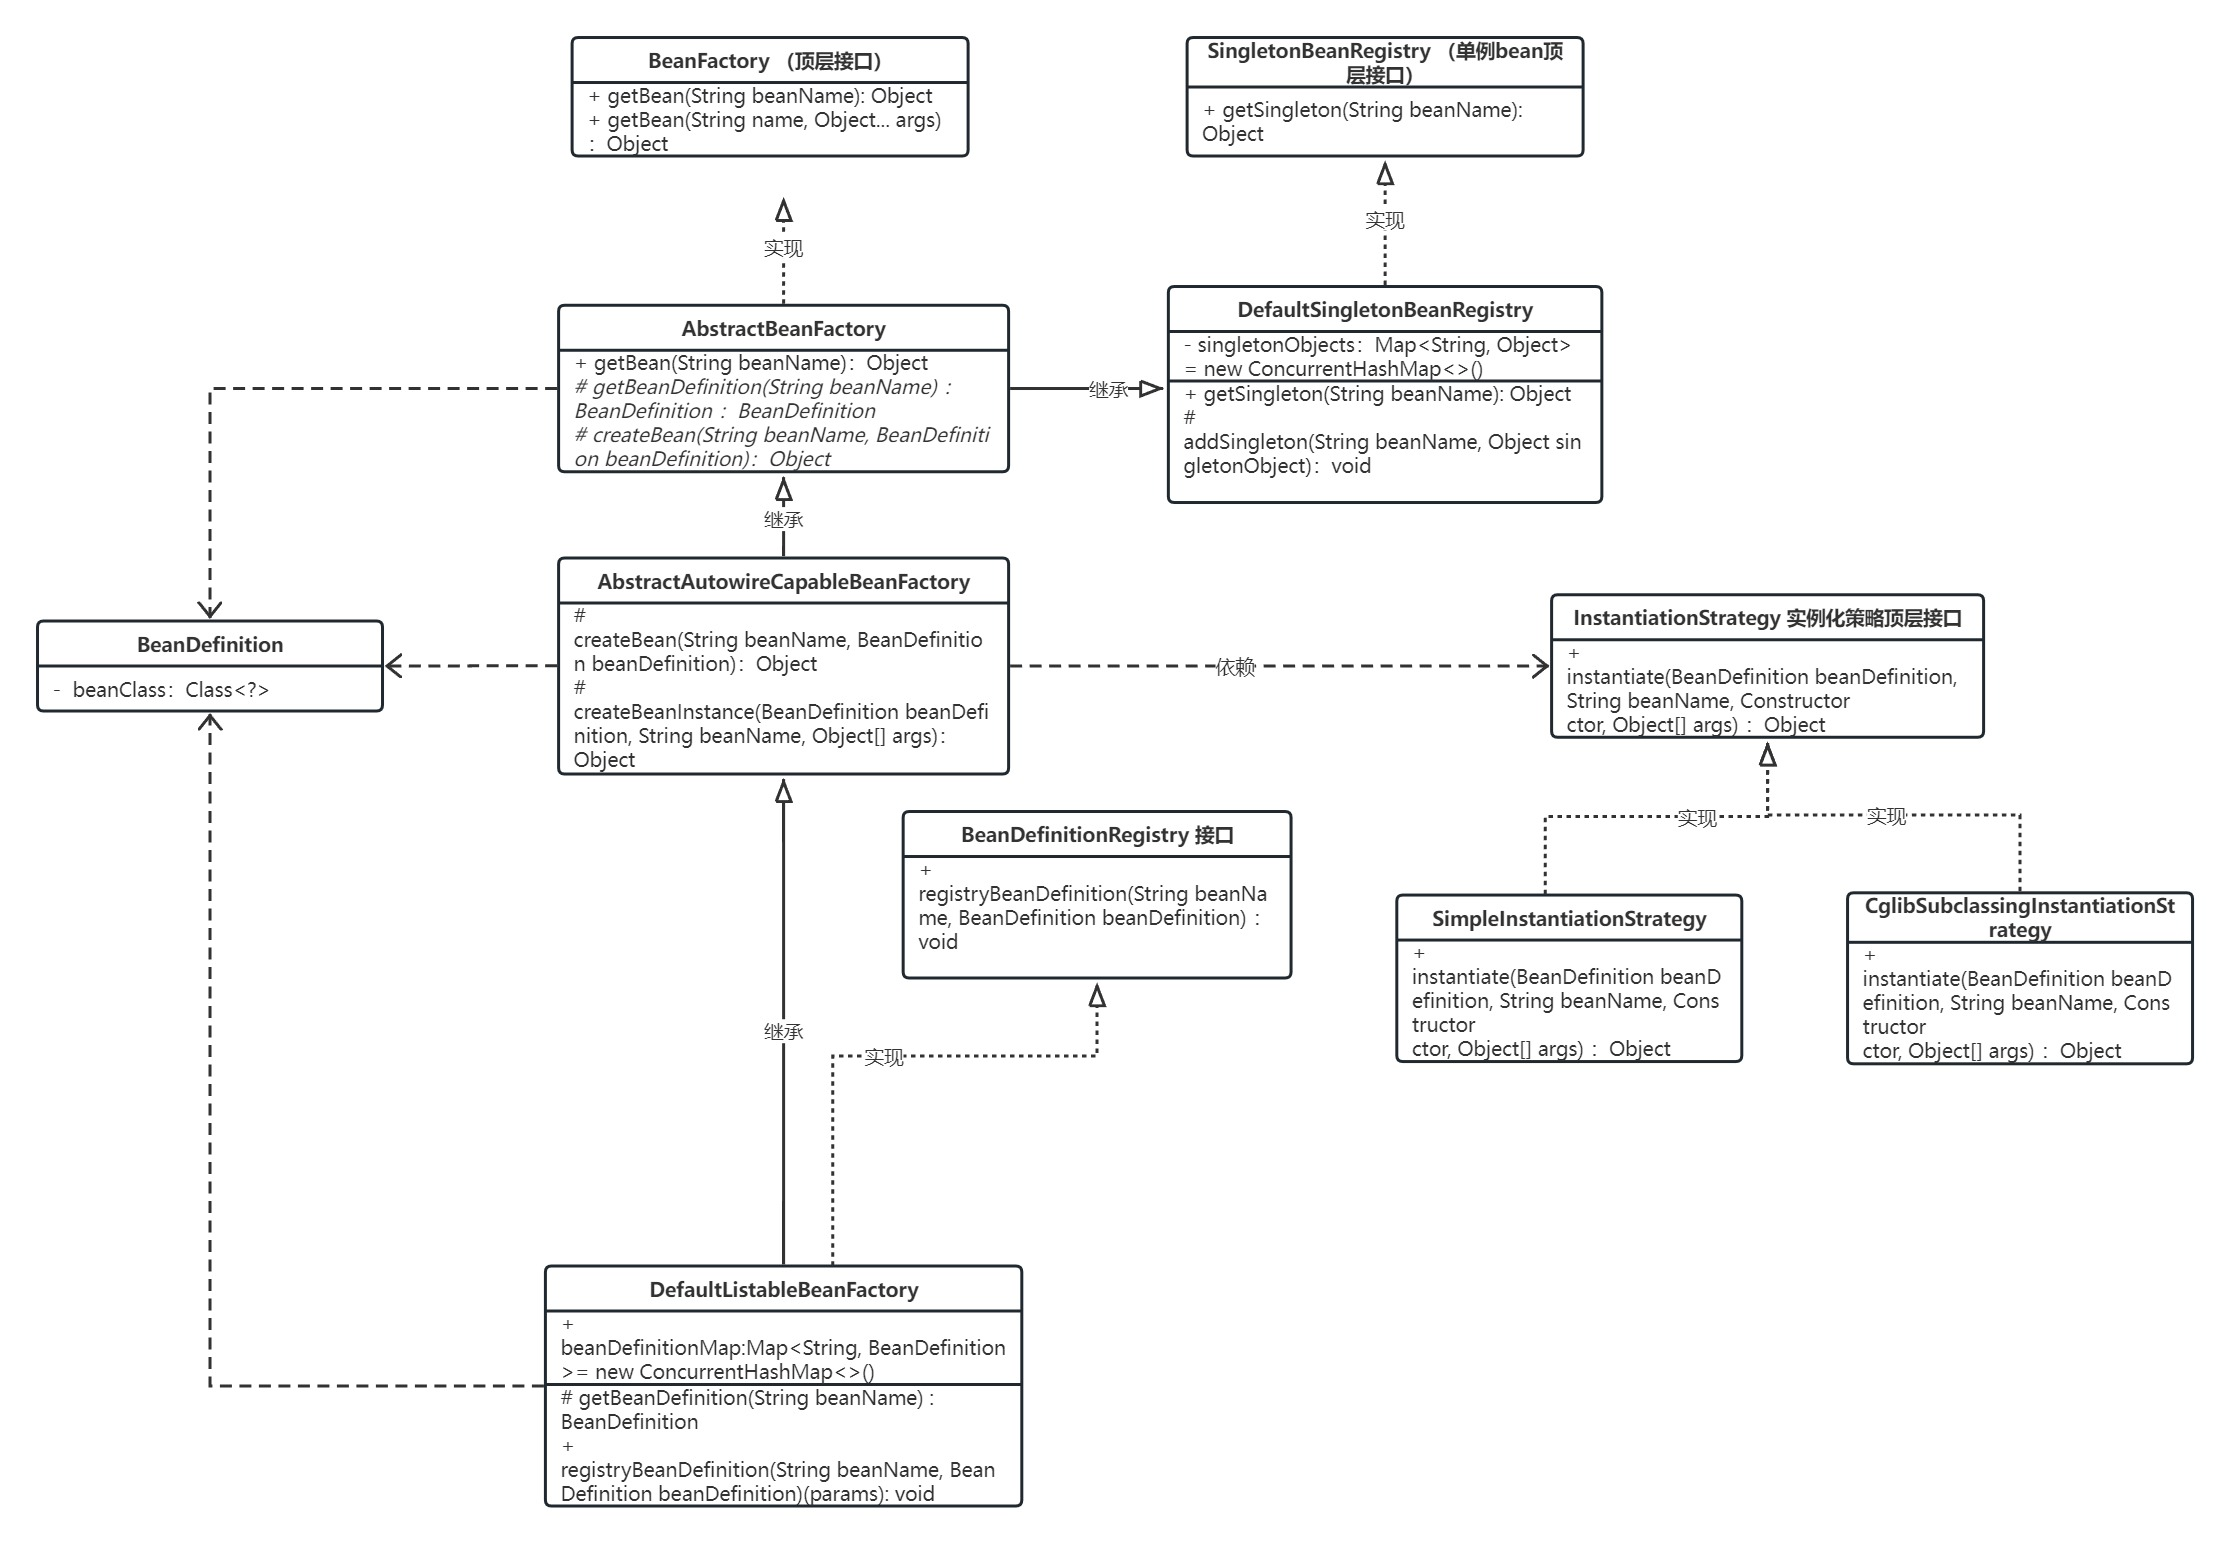
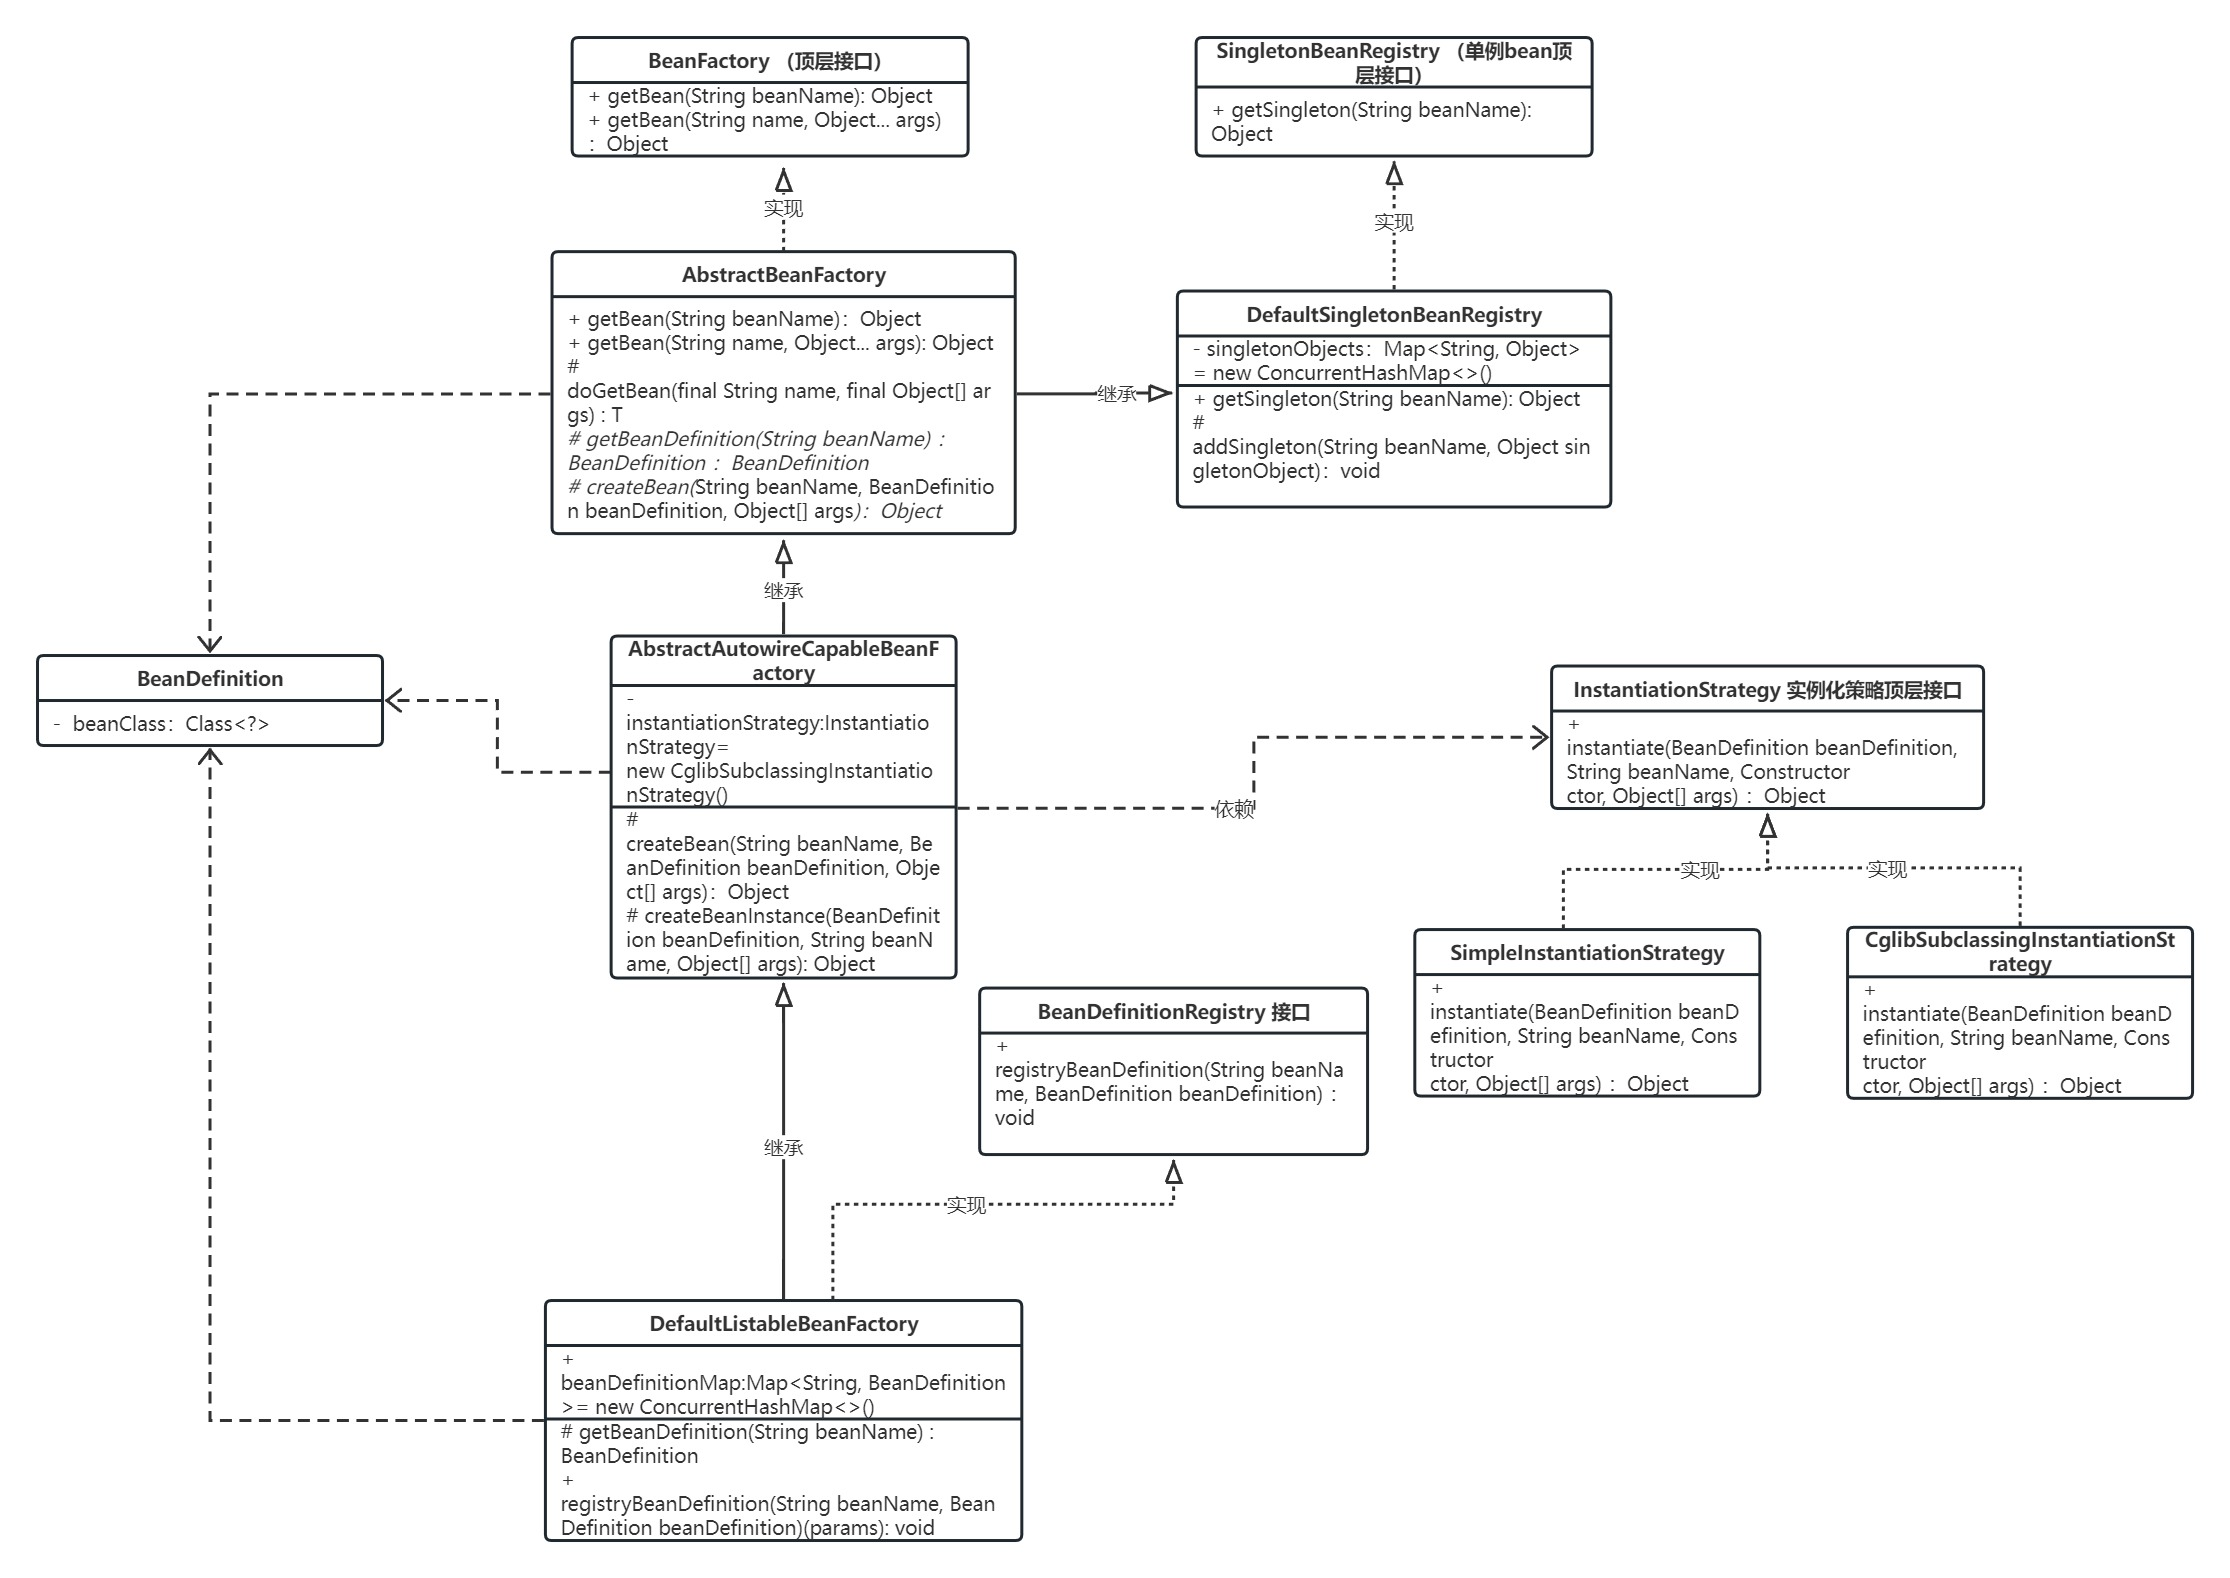
1.AbstractAutowireCapableBeanFactory 优化 2. 类图修改

diff --git a/spring-step-2/src/main/java/com/chenfei/springframework/beans/factory/support/AbstractAutowireCapableBeanFactory.java b/spring-step-2/src/main/java/com/chenfei/springframework/beans/factory/support/AbstractAutowireCapableBeanFactory.java
@@ -12,23 +12,35 @@ import java.lang.reflect.Constructor;
  **/
 public abstract class AbstractAutowireCapableBeanFactory extends AbstractBeanFactory{
 
-    private InstantiationStrategy instantiationStrategy = new CglibSubclassingInstantiationStrategy();
+    private final InstantiationStrategy instantiationStrategy = new CglibSubclassingInstantiationStrategy();
     private InstantiationStrategy getInstantiationStrategy() {
         return instantiationStrategy;
     }
 
     @Override
-    Object createBean(String beanName, BeanDefinition beanDefinition, Object[] args) throws BeansException {
+    protected Object createBean(String beanName, BeanDefinition beanDefinition, Object[] args) throws BeansException {
+        Object bean = null;
+        try {
+            bean = createBeanInstance(beanDefinition, beanName, args);
+        } catch (Exception e) {
+            throw new BeansException("Instantiation of bean failed", e);
+        }
 
-        Constructor<?> cotr = null;
-        Constructor<?>[] declaredConstructors = beanDefinition.getBeanClass().getDeclaredConstructors();
-        for (Constructor<?> constructor : declaredConstructors) {
-            if (constructor.getParameterTypes().length == args.length) {
-                cotr = constructor;
+        addSingleton(beanName, bean);
+        return bean;
+    }
+
+    protected Object createBeanInstance(BeanDefinition beanDefinition, String beanName, Object[] args) {
+        Constructor<?> constructorToUse = null;
+        Class<?> beanClass = beanDefinition.getBeanClass();
+        Constructor<?>[] declaredConstructors = beanClass.getDeclaredConstructors();
+        for (Constructor<?> ctor : declaredConstructors) {
+            if (null != args && ctor.getParameterTypes().length == args.length) {
+                constructorToUse = ctor;
                 break;
             }
         }
-        return getInstantiationStrategy().instantiate(beanDefinition, beanName, cotr, args);
+        return getInstantiationStrategy().instantiate(beanDefinition, beanName, constructorToUse, args);
     }
 
 
